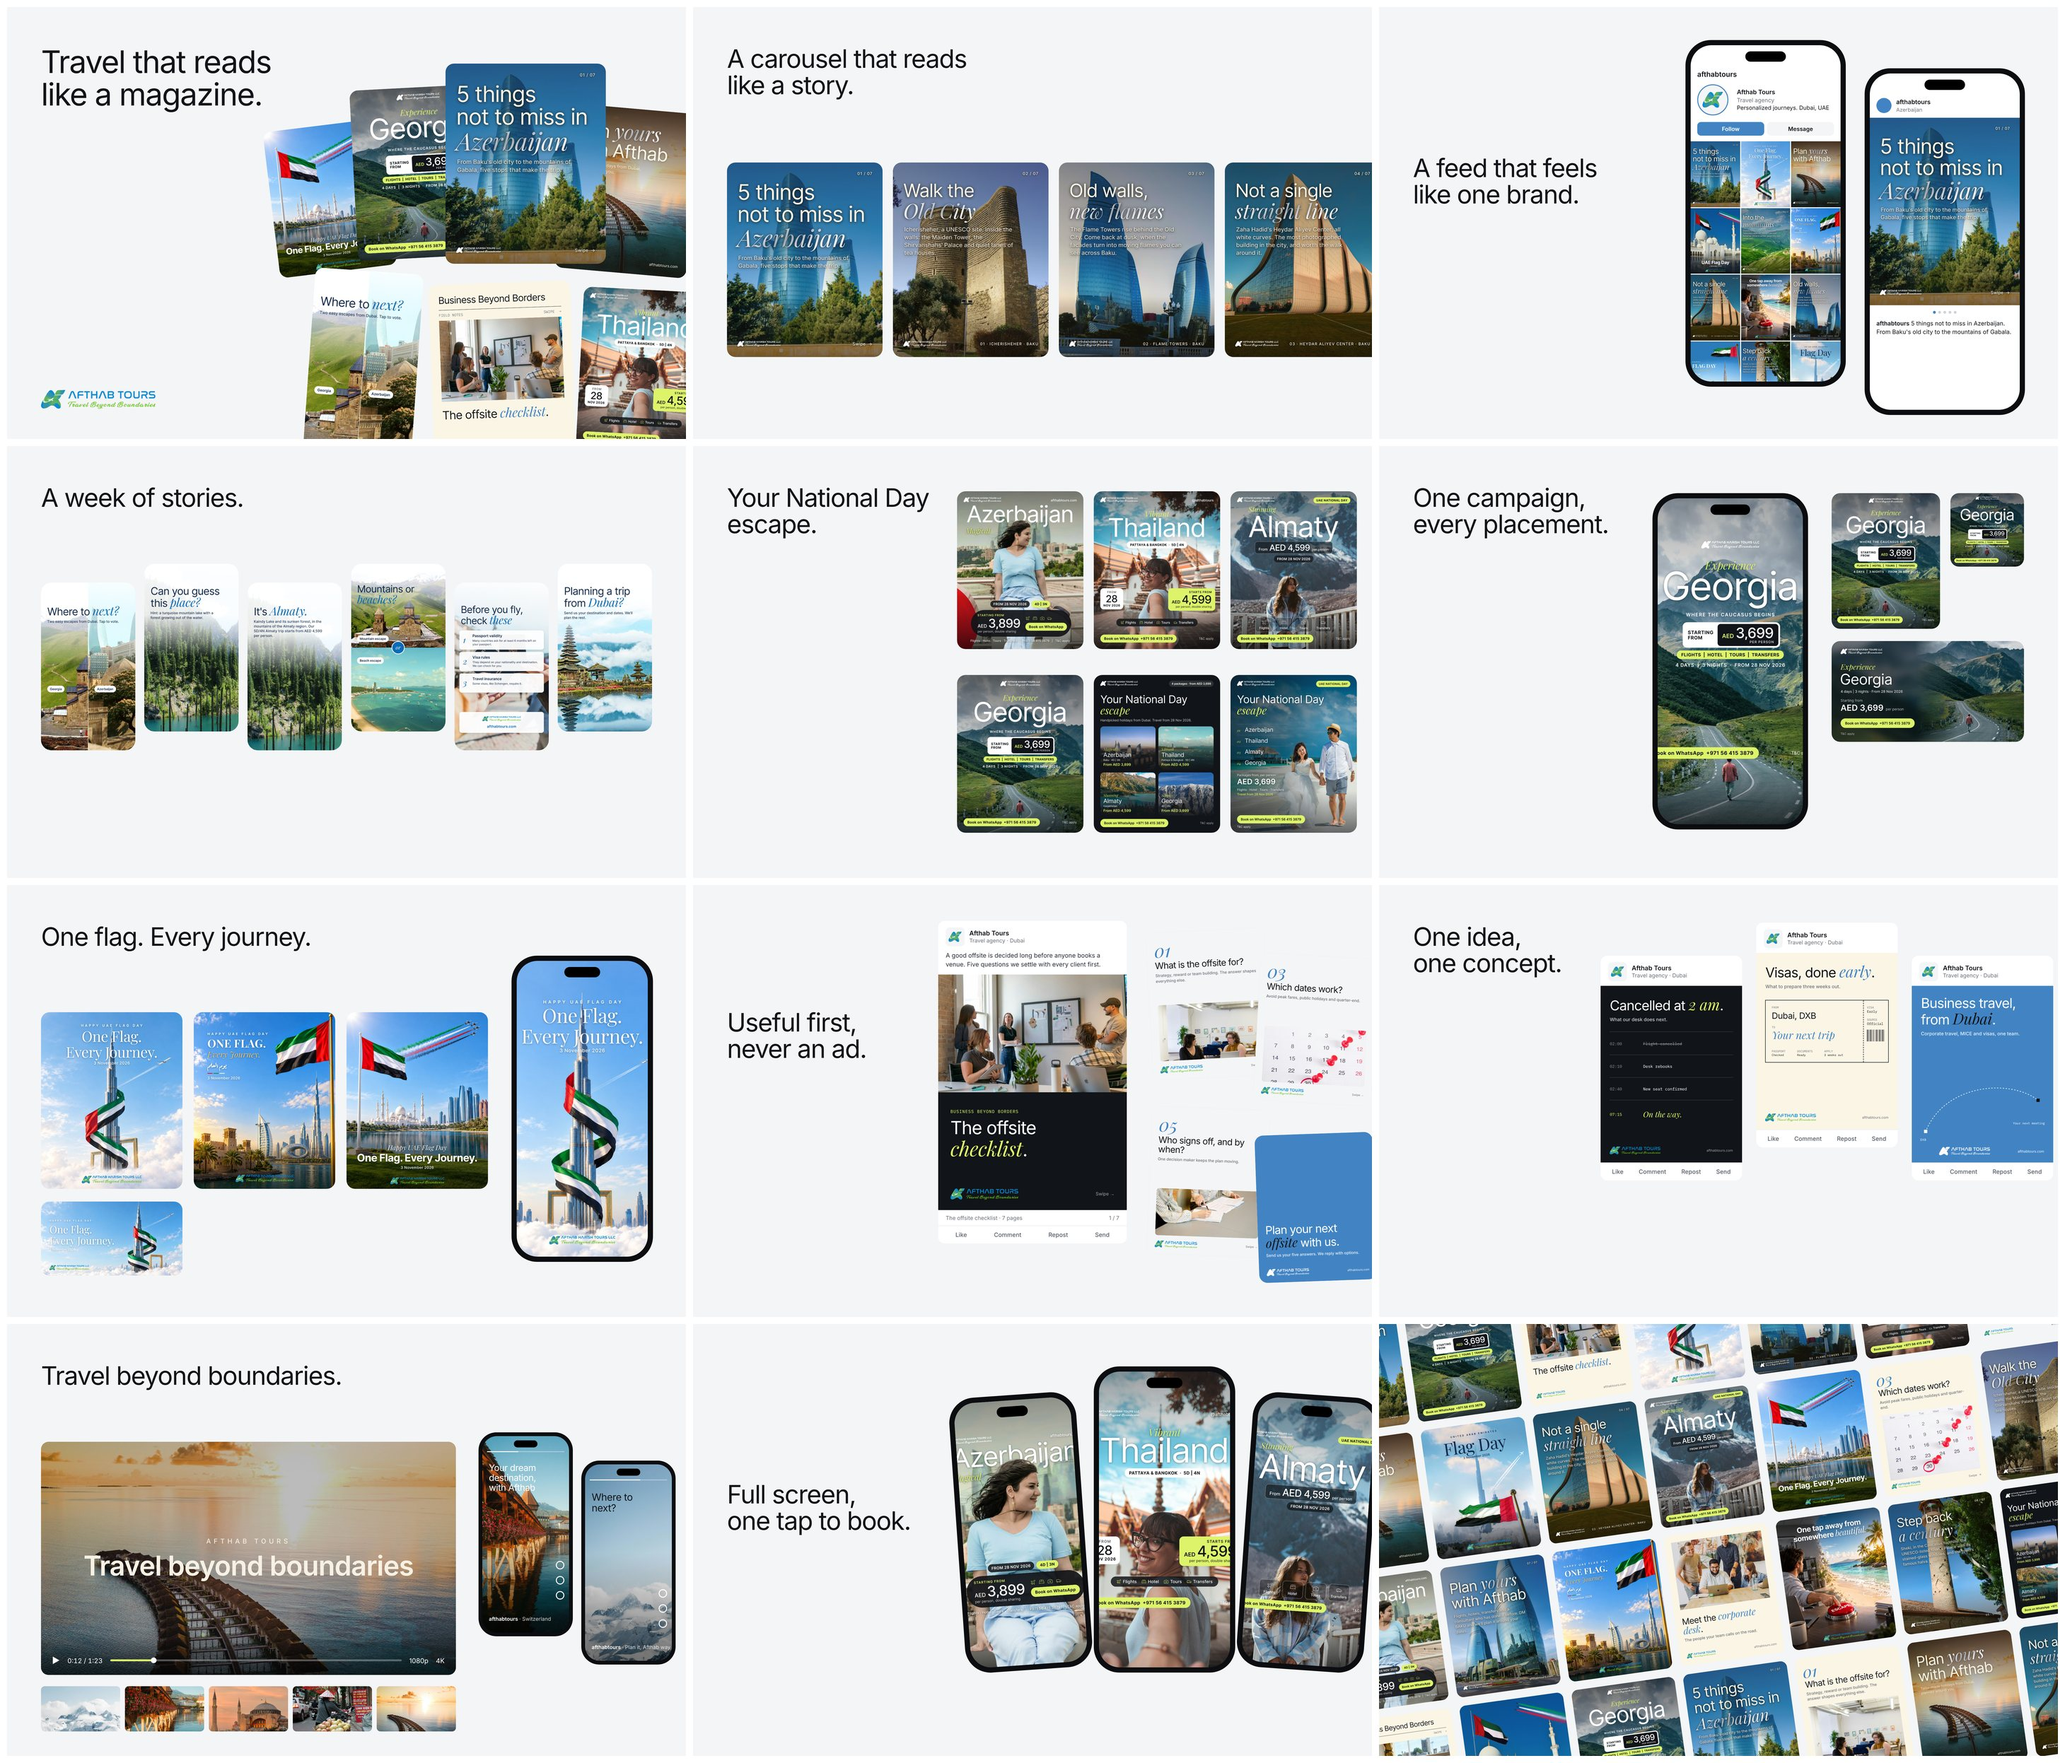
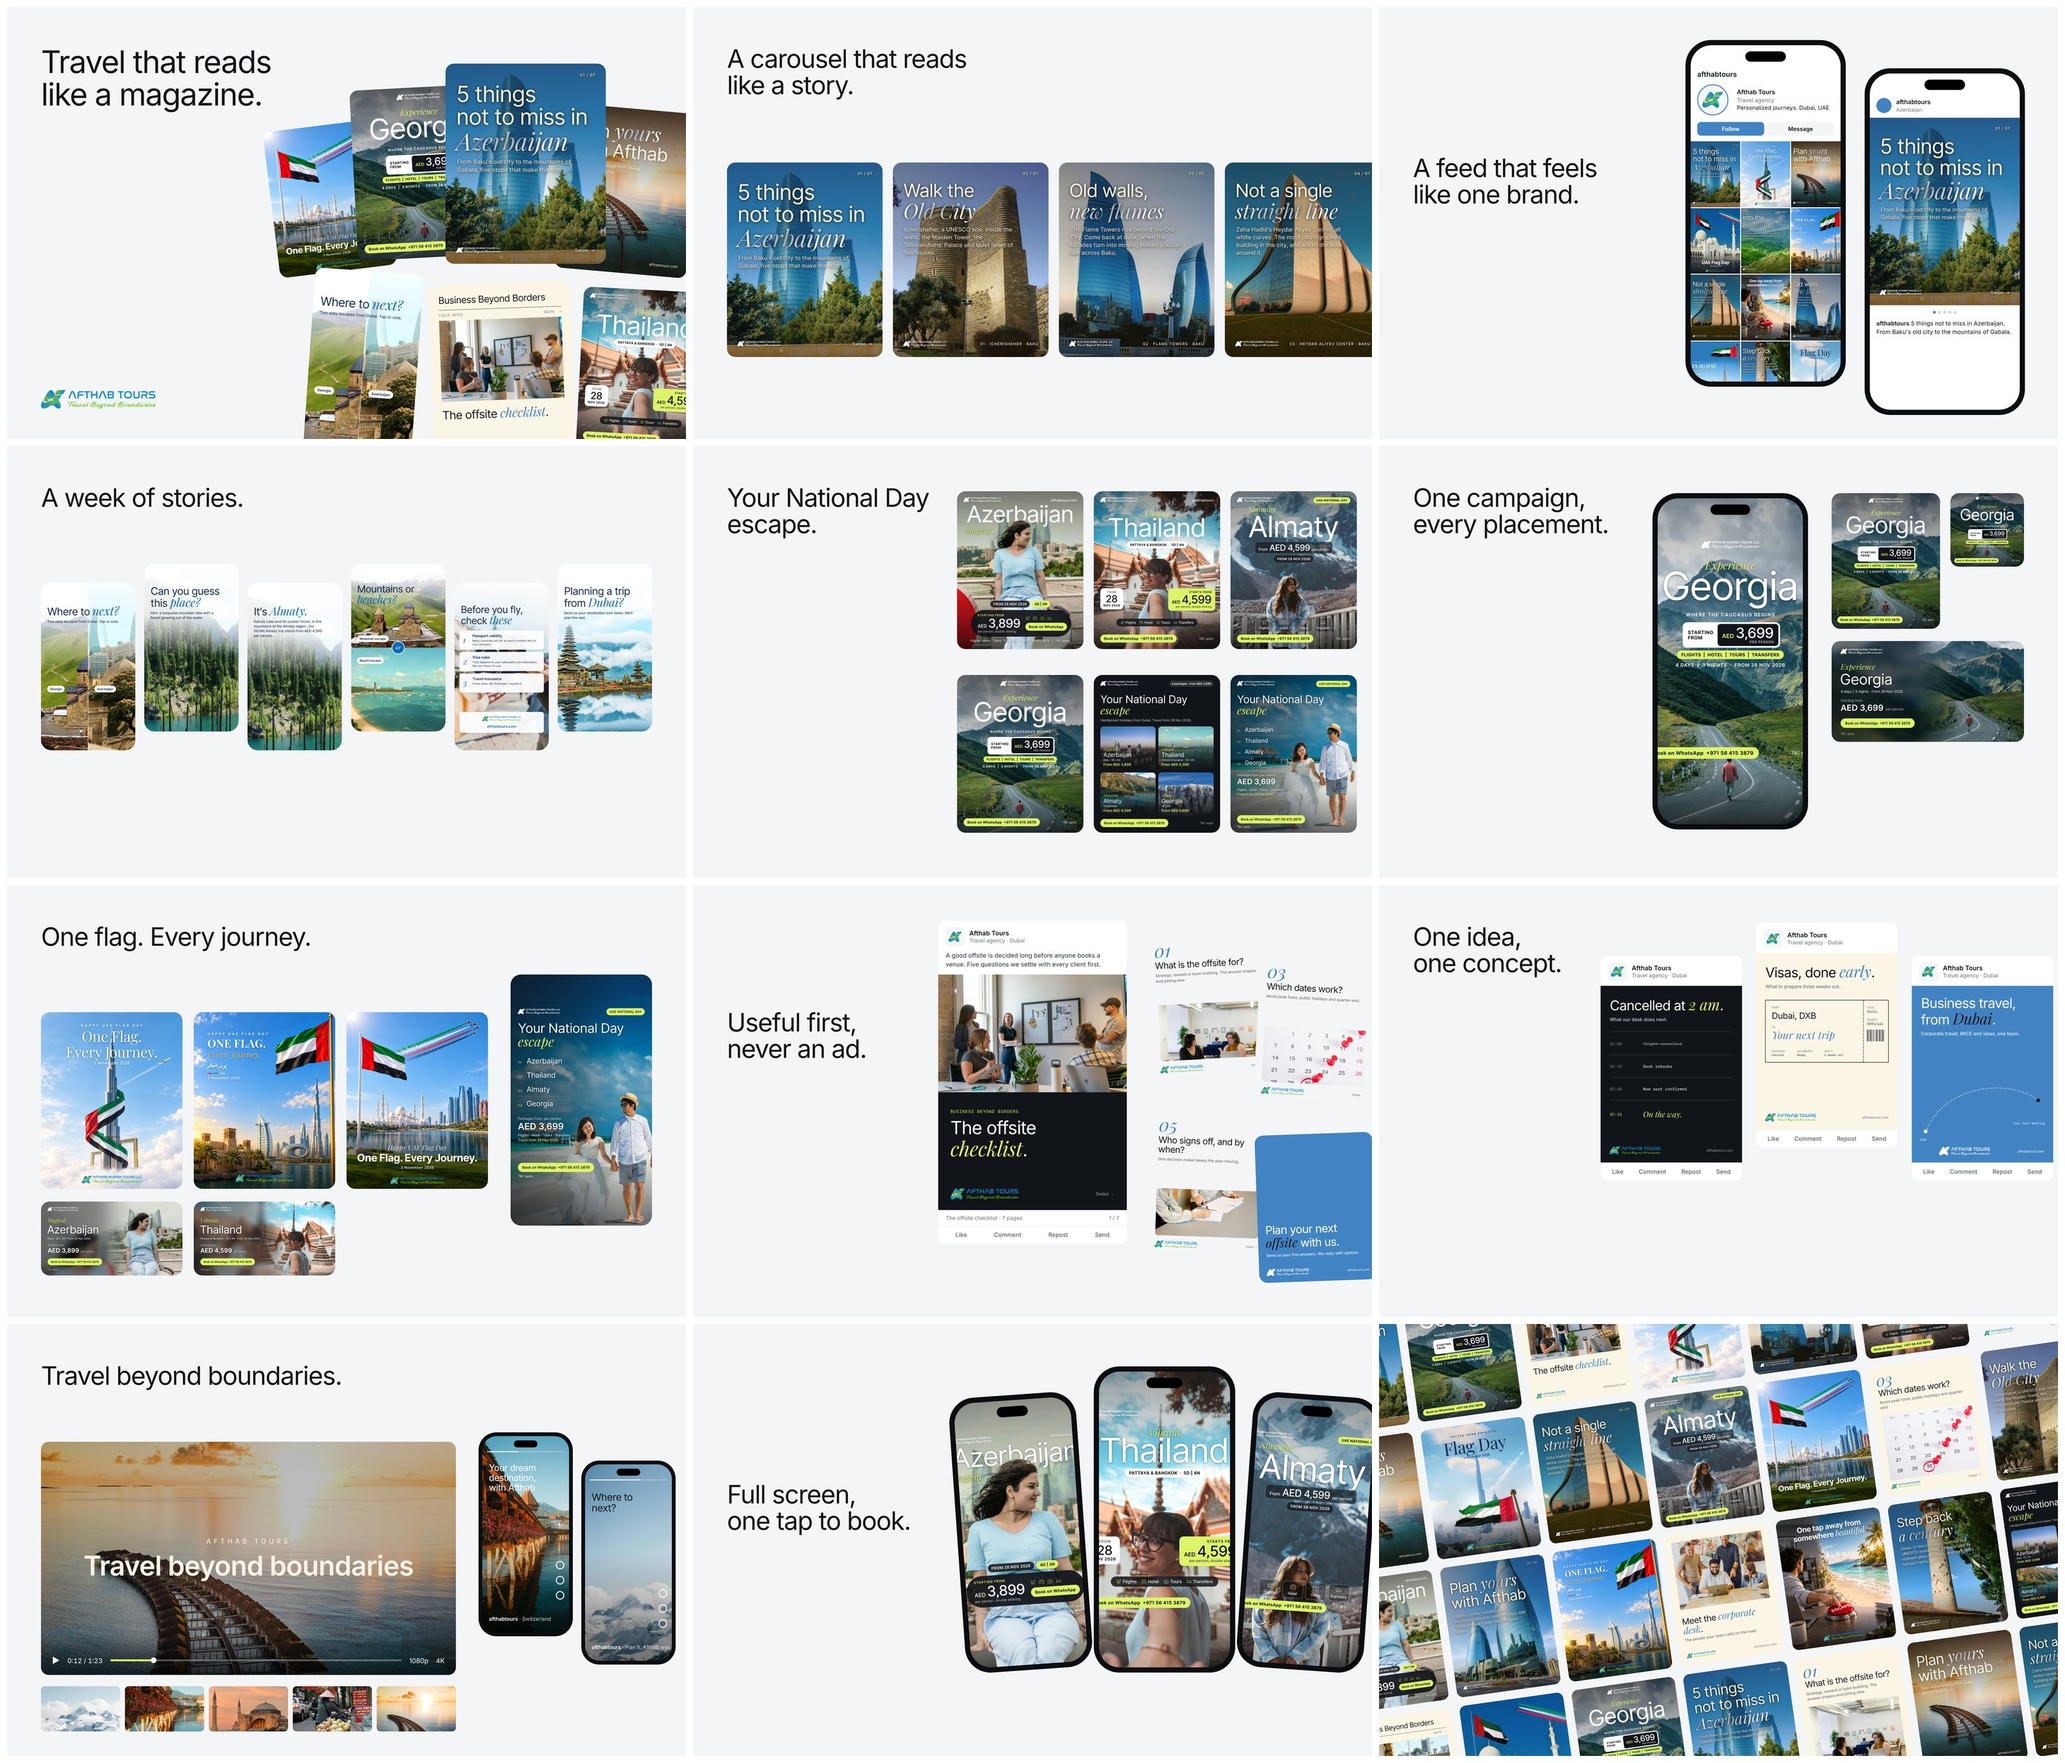
Afthab Tours mockups: frame 07 shows tour packages in place of the repeated Flag Day pieces
Claude-Session: https://claude.ai/code/session_011BdSE2fEeiEv9ZgoYmWAPn

Changed region(s): [[0.2493, 0.5249, 0.3428, 0.741], [0.0, 0.6792, 0.187, 0.741]]

diff --git a/design/case-studies/afthab-tours/mock.html b/design/case-studies/afthab-tours/mock.html
@@ -139,8 +139,9 @@ body{background:#888;font-family:Inter,sans-serif;color:var(--ink)}
   <div class="card" style="left:72px;top:270px;width:300px;height:375px"><img src="cut/968_35.jpg"></div>
   <div class="card" style="left:396px;top:270px;width:300px;height:375px"><img src="cut/968_37.jpg"></div>
   <div class="card" style="left:720px;top:270px;width:300px;height:375px"><img src="cut/968_39.jpg"></div>
-  <div class="phone" style="left:1070px;top:150px;width:300px;height:650px"><div class="screen"><div class="island"></div><img src="cut/fdA.jpg"></div></div>
-  <div class="card" style="left:72px;top:672px;width:300px;height:157px"><img src="cut/977_34.jpg"></div>
+  <div class="card" style="left:1068px;top:190px;width:300px;height:533px;border-radius:22px"><img src="cut/st-mv.jpg"></div>
+  <div class="card" style="left:72px;top:672px;width:300px;height:157px"><img src="cut/ls-az.jpg"></div>
+  <div class="card" style="left:396px;top:672px;width:300px;height:157px"><img src="cut/ls-th.jpg"></div>
 </section>
 
 <!-- 08 LinkedIn carousel -->
